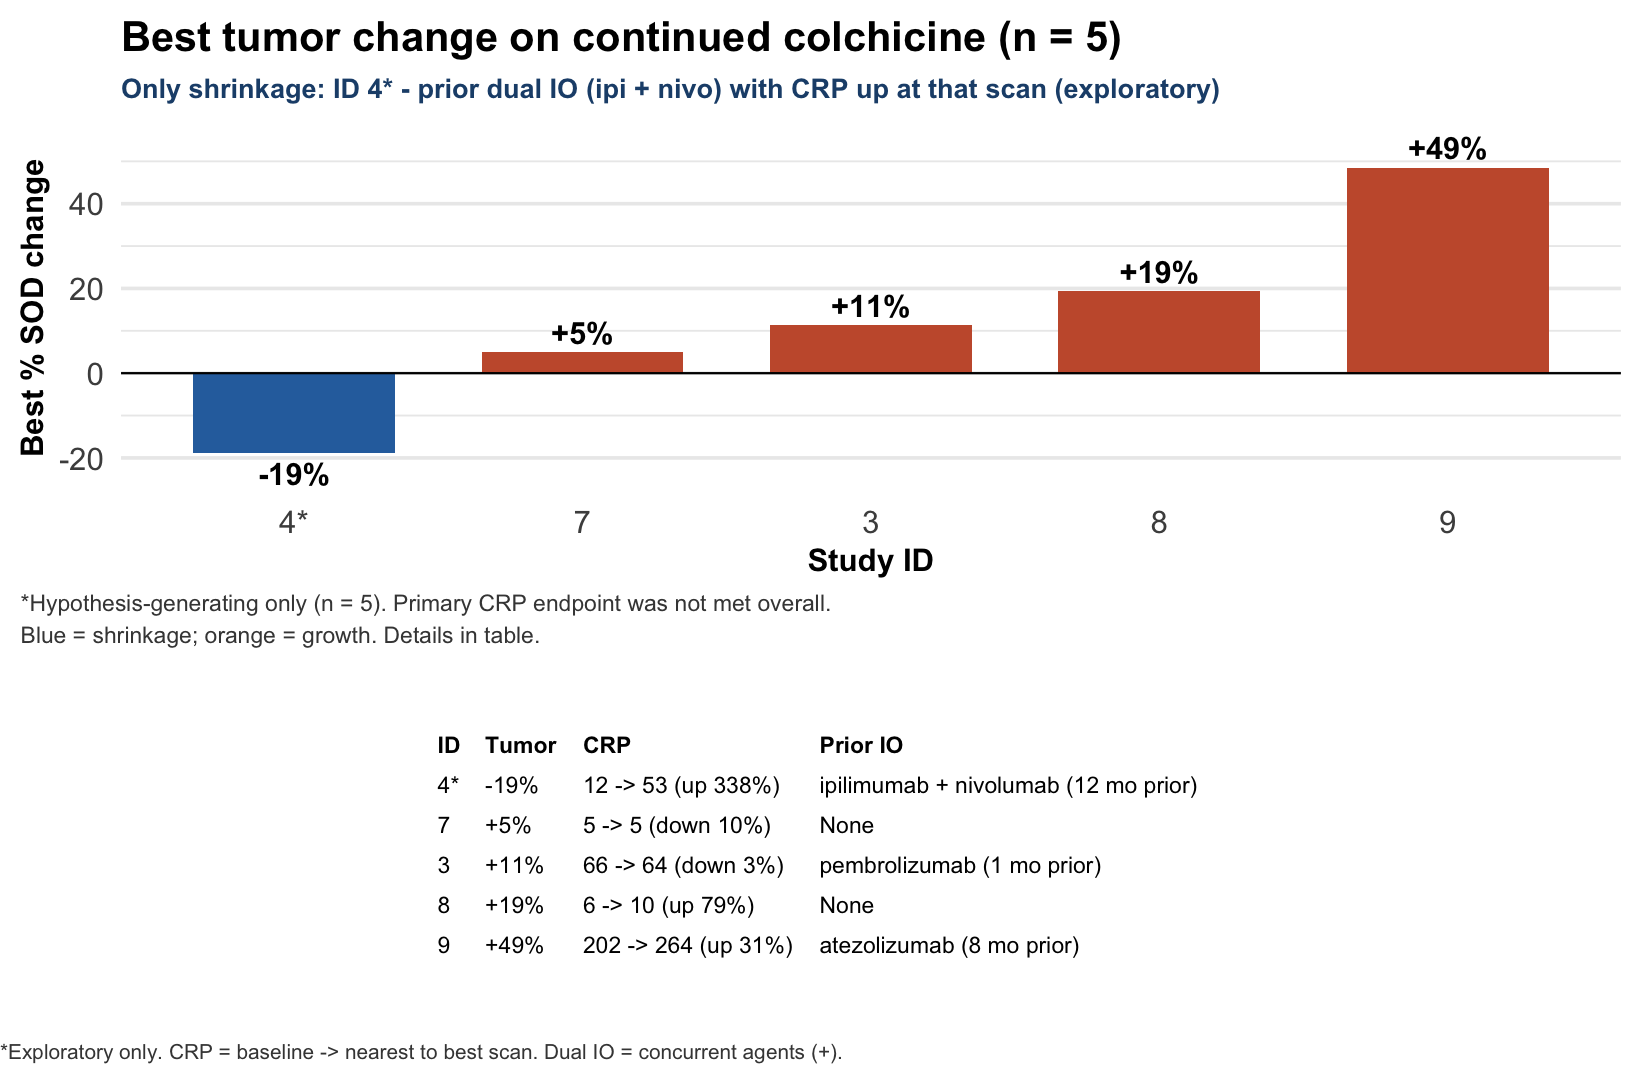
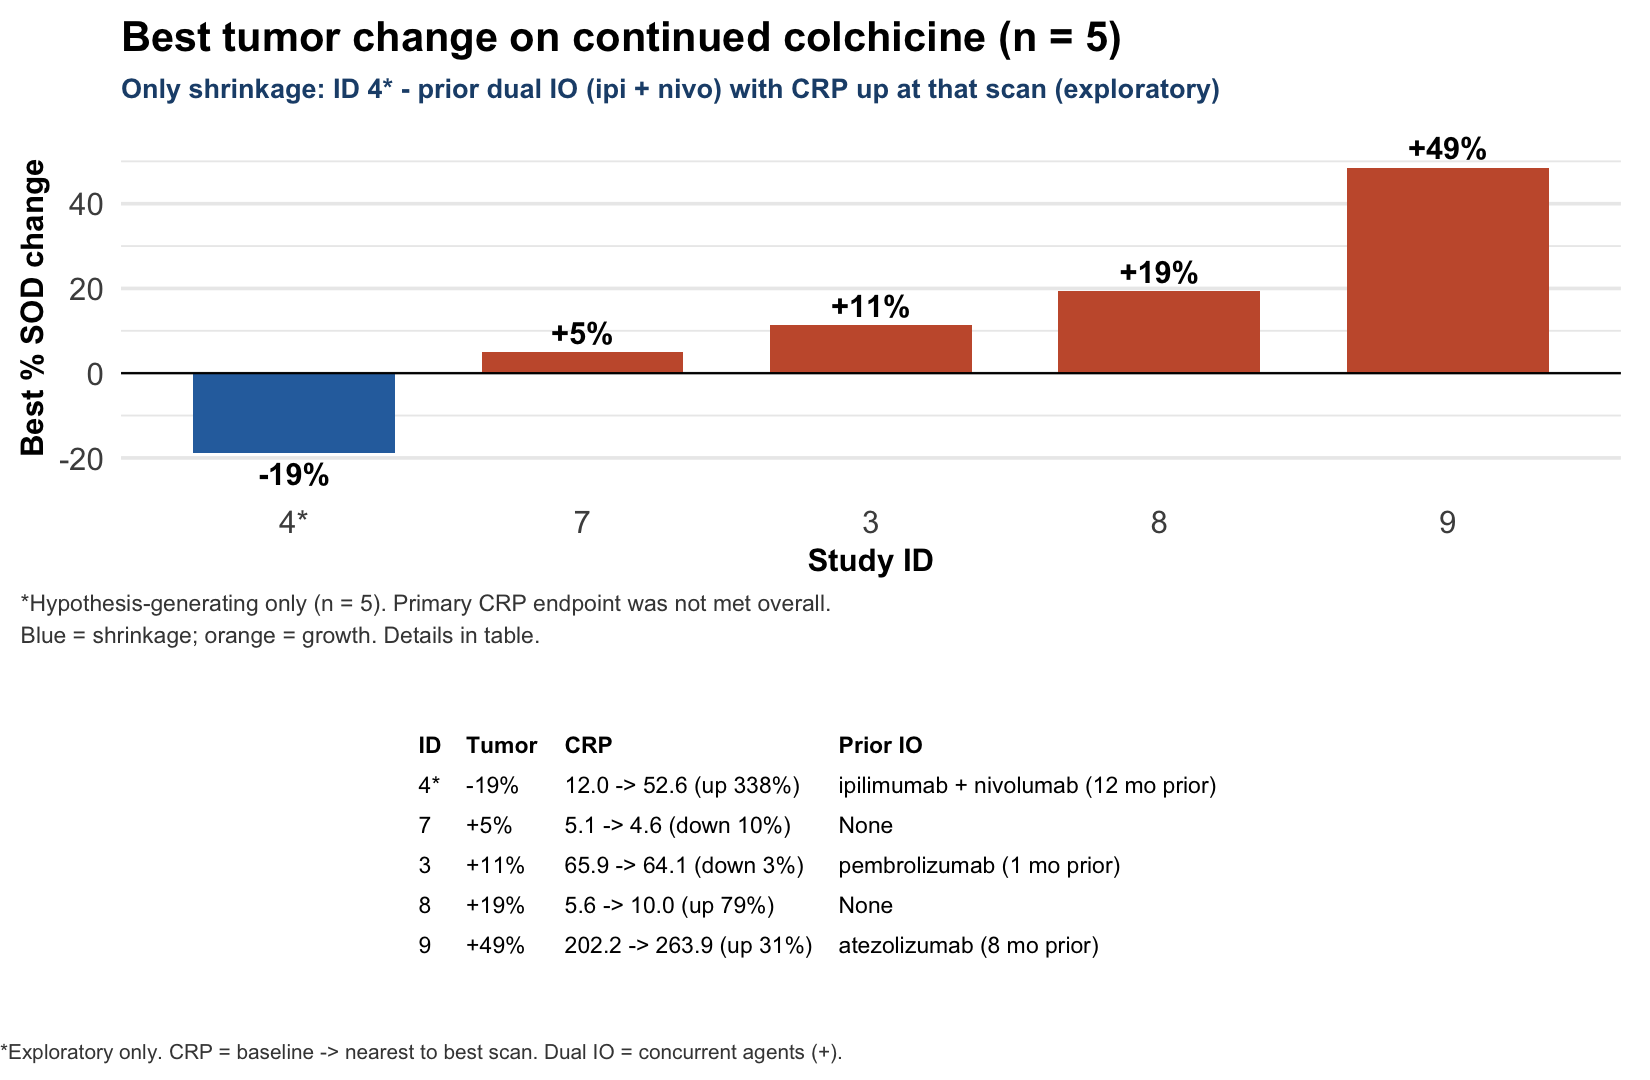
fix: show one-decimal CRP values in tumor waterfall table

Changed region(s): [[0.2473, 0.6722, 0.7418, 0.8861]]

diff --git a/index.html b/index.html
@@ -4105,7 +4105,7 @@ Prior IO
 -19%
 </td>
 <td style="text-align:left;font-weight: bold;background-color: rgba(232, 241, 251, 255) !important;">
-12 -&gt; 53 (up 338%)
+12.0 -&gt; 52.6 (up 338%)
 </td>
 <td style="text-align:left;font-weight: bold;background-color: rgba(232, 241, 251, 255) !important;">
 ipilimumab + nivolumab (12 mo prior)
@@ -4119,7 +4119,7 @@ ipilimumab + nivolumab (12 mo prior)
 +5%
 </td>
 <td style="text-align:left;">
-5 -&gt; 5 (down 10%)
+5.1 -&gt; 4.6 (down 10%)
 </td>
 <td style="text-align:left;">
 None
@@ -4133,7 +4133,7 @@ None
 +11%
 </td>
 <td style="text-align:left;">
-66 -&gt; 64 (down 3%)
+65.9 -&gt; 64.1 (down 3%)
 </td>
 <td style="text-align:left;">
 pembrolizumab (1 mo prior)
@@ -4147,7 +4147,7 @@ pembrolizumab (1 mo prior)
 +19%
 </td>
 <td style="text-align:left;">
-6 -&gt; 10 (up 79%)
+5.6 -&gt; 10.0 (up 79%)
 </td>
 <td style="text-align:left;">
 None
@@ -4161,7 +4161,7 @@ None
 +49%
 </td>
 <td style="text-align:left;">
-202 -&gt; 264 (up 31%)
+202.2 -&gt; 263.9 (up 31%)
 </td>
 <td style="text-align:left;">
 atezolizumab (8 mo prior)

diff --git a/statistical-analysis.html b/statistical-analysis.html
@@ -1788,7 +1788,7 @@ tumor_waterfall_dat &lt;- tumor_change %&gt;%
     crp_change_lab = case_when(
       is.na(baseline_crp) | is.na(crp_at_imaging) | is.na(crp_pct_change_at_imaging) ~ &quot;NE&quot;,
       TRUE ~ paste0(
-        sprintf(&quot;%.0f&quot;, baseline_crp), &quot; -&gt; &quot;, sprintf(&quot;%.0f&quot;, crp_at_imaging),
+        sprintf(&quot;%.1f&quot;, baseline_crp), &quot; -&gt; &quot;, sprintf(&quot;%.1f&quot;, crp_at_imaging),
         &quot; (&quot;,
         if_else(
           crp_pct_change_at_imaging &gt;= 0,